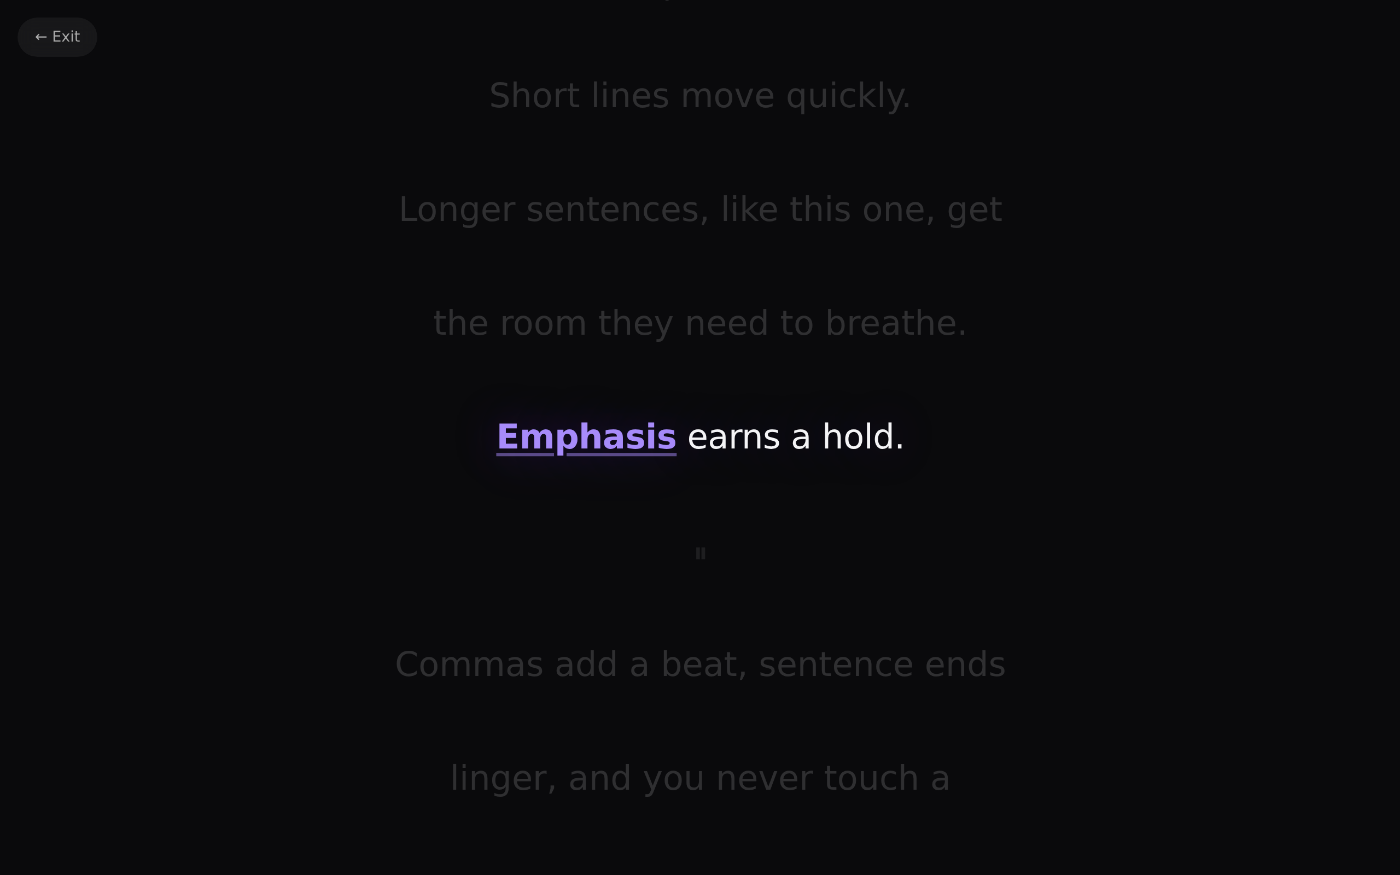
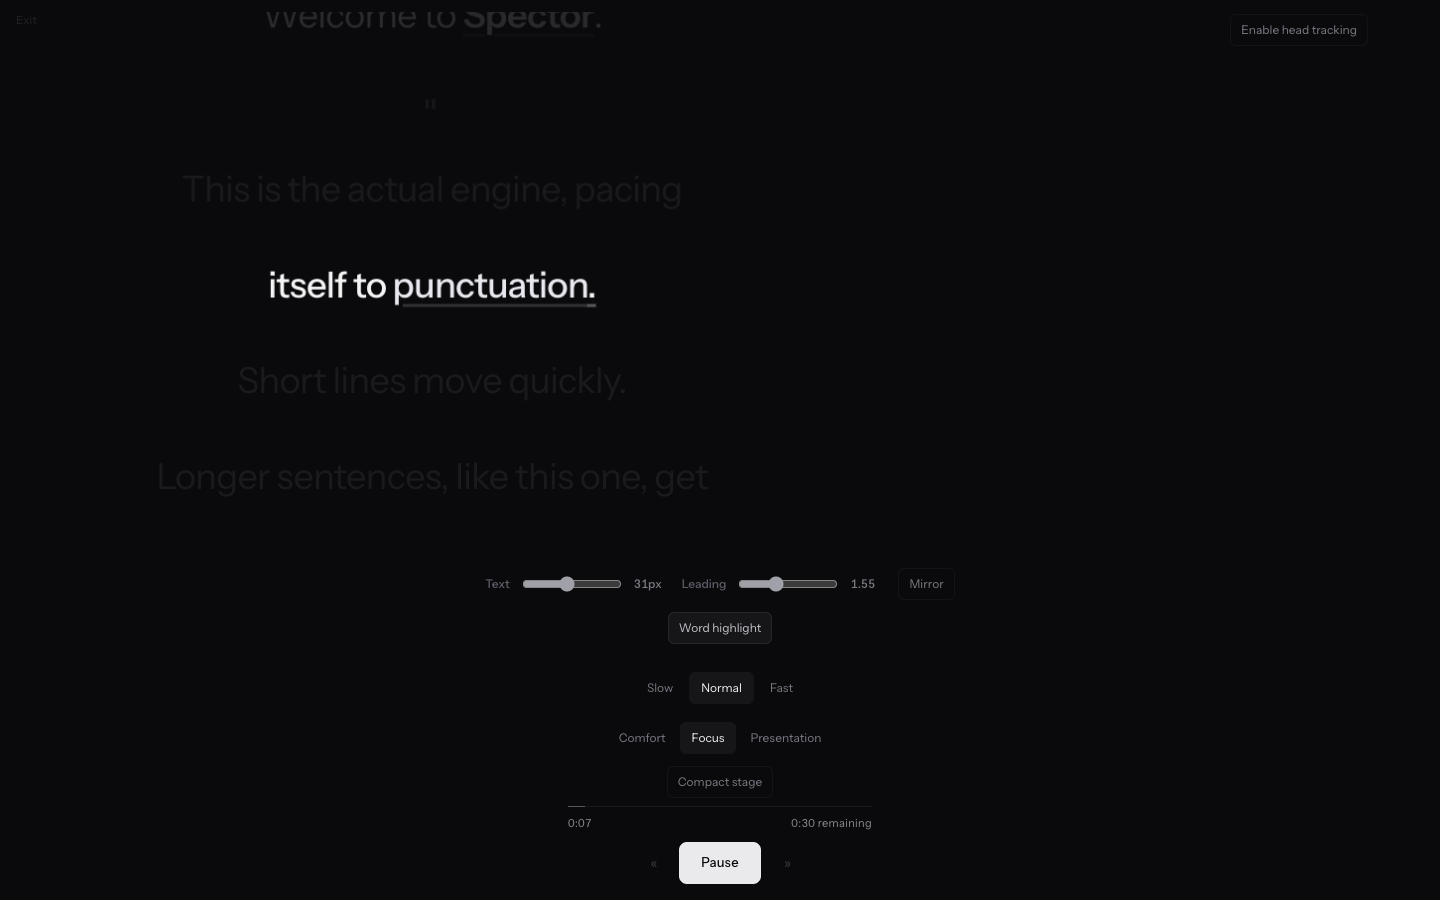
images: catch README + social card up to the dark refresh
- docs/images/readme-landing.png: fresh full-page capture of the merged
  dark landing (1440px) — dark hero, serif-accent headline, live demo pane
  with mono readouts. Captured fresh, not reused from review artifacts.
- docs/images/readme-player.png: replaced with the PR #72 capture of the
  current player (mid-play, word-highlight underline, full control set);
  the old file was the retired purple design.
- public/images/og-card.png: rebuilt in the new visual language via a
  deterministic generator (assets/og-card.html, 1200x630, served from repo
  root + headless capture) — #070A0C base with radial glows, mono SPECTOR
  wordmark, Instrument Sans + Serif-italic headline with phosphor glow,
  one phosphor notched demo-pane motif, small tagline. Reproducible.
- Cache-buster: og-card.png?v=2 -> ?v=3 on all five pages that reference it.

Service worker: none of the three replaced files appear in the sw.js ASSETS
precache list (verified) -> spector-v16 stands, no bump.

Verification: run_verification.py ALL PASS; app.html?test ALL PASS (74);
landing network tab zero third-party origins.

diff --git a/assets/og-card.html b/assets/og-card.html
@@ -1,0 +1,132 @@
+<!DOCTYPE html>
+<!-- SPECTOR og-card generator — deterministic 1200x630 social card.
+     Serve the REPO ROOT (python3 -m http.server) and screenshot .card at
+     exactly 1200x630, then save to public/images/og-card.png.
+     Fonts resolve from the vendored public/fonts/ (OFL 1.1). -->
+<html lang="en">
+<head>
+<meta charset="UTF-8">
+<style>
+    @font-face {
+        font-family: 'Instrument Sans';
+        font-style: normal;
+        font-weight: 100 900;
+        src: url('../public/fonts/instrument-sans-var-latin.woff2') format('woff2');
+    }
+    @font-face {
+        font-family: 'Instrument Serif';
+        font-style: italic;
+        font-weight: 400;
+        src: url('../public/fonts/instrument-serif-italic-latin.woff2') format('woff2');
+    }
+    * { margin: 0; padding: 0; box-sizing: border-box; }
+    body { background: #222; }
+    .card {
+        width: 1200px;
+        height: 630px;
+        position: relative;
+        overflow: hidden;
+        background-color: #070A0C;
+        background-image:
+            radial-gradient(ellipse 60% 55% at 78% 22%, rgba(47, 217, 196, 0.08), transparent),
+            radial-gradient(ellipse 50% 45% at 12% 88%, rgba(64, 96, 116, 0.07), transparent);
+        color: #E8EDEC;
+        font-family: 'Instrument Sans', system-ui, sans-serif;
+        padding: 64px 72px;
+        display: flex;
+        flex-direction: column;
+    }
+    /* page-wide scanline texture, same as the site */
+    .card::before {
+        content: '';
+        position: absolute;
+        inset: 0;
+        pointer-events: none;
+        background: repeating-linear-gradient(0deg, rgba(255, 255, 255, 0.015) 0 1px, transparent 1px 3px);
+    }
+    .wordmark {
+        font-family: ui-monospace, 'SF Mono', Menlo, monospace;
+        font-size: 15px;
+        letter-spacing: 0.32em;
+        color: rgba(232, 237, 236, 0.55);
+    }
+    .headline {
+        margin-top: 54px;
+        font-size: 96px;
+        font-weight: 640;
+        letter-spacing: -0.035em;
+        line-height: 1.02;
+        max-width: 9.5ch;
+    }
+    .headline .serif {
+        font-family: 'Instrument Serif', serif;
+        font-style: italic;
+        font-weight: 400;
+        letter-spacing: -0.015em;
+        text-shadow: 0 0 34px rgba(47, 217, 196, 0.28);
+    }
+    .tagline {
+        margin-top: auto;
+        font-size: 24px;
+        color: rgba(232, 237, 236, 0.62);
+        letter-spacing: -0.01em;
+        max-width: 560px;
+    }
+    /* One phosphor accent: the notched demo-pane motif */
+    .pane {
+        position: absolute;
+        right: 72px;
+        bottom: 64px;
+        width: 380px;
+        background: #10161A;
+        border: 1px solid rgba(255, 255, 255, 0.08);
+        clip-path: polygon(0 0, calc(100% - 20px) 0, 100% 20px, 100% 100%, 0 100%);
+        box-shadow: 0 0 64px -20px rgba(47, 217, 196, 0.25);
+        padding: 26px 28px 18px;
+    }
+    .pane .ctx {
+        font-size: 15px;
+        color: rgba(232, 237, 236, 0.5);
+        line-height: 1.5;
+    }
+    .pane .active {
+        font-size: 21px;
+        font-weight: 550;
+        color: #F2F7F6;
+        margin: 8px 0;
+    }
+    .pane .active::after {
+        content: '';
+        display: inline-block;
+        width: 2px;
+        height: 0.95em;
+        margin-left: 4px;
+        vertical-align: -0.12em;
+        background: #2FD9C4;
+        box-shadow: 0 0 8px rgba(47, 217, 196, 0.6);
+    }
+    .pane .readouts {
+        margin-top: 14px;
+        padding-top: 12px;
+        border-top: 1px solid rgba(255, 255, 255, 0.06);
+        font-family: ui-monospace, 'SF Mono', Menlo, monospace;
+        font-size: 10.5px;
+        letter-spacing: 0.12em;
+        color: rgba(232, 237, 236, 0.4);
+    }
+    .pane .readouts b { color: #2FD9C4; font-weight: 400; }
+</style>
+</head>
+<body>
+    <div class="card">
+        <div class="wordmark">SPECTOR</div>
+        <div class="headline">Stop reading.<br>Start <span class="serif">delivering.</span></div>
+        <div class="tagline">Free, open-source teleprompter. Your punctuation sets the pace.</div>
+        <div class="pane">
+            <div class="ctx">Longer sentences get the room they need.</div>
+            <div class="active">Emphasis earns a hold.</div>
+            <div class="readouts"><b>WPM 142</b>&nbsp;&nbsp;&nbsp;CHUNK 03/18&nbsp;&nbsp;&nbsp;FOCUS · NORMAL</div>
+        </div>
+    </div>
+</body>
+</html>

diff --git a/public/ray-ban-meta-teleprompter.html b/public/ray-ban-meta-teleprompter.html
@@ -9,7 +9,7 @@
     <meta name="theme-color" content="#F7F7F8">
     <meta property="og:title" content="Spector for Ray-Ban Meta">
     <meta property="og:description" content="Gen 1 and Gen 2 have no display. The Display model cannot show SPECTOR on the lens yet. Rehearse on your phone.">
-    <meta property="og:image" content="https://www.spectorlabs.io/images/og-card.png?v=2">
+    <meta property="og:image" content="https://www.spectorlabs.io/images/og-card.png?v=3">
     <meta property="og:image:width" content="1200">
     <meta property="og:image:height" content="630">
     <meta property="og:image:alt" content="SPECTOR player: the active script line highlighted on a dark stage">
@@ -18,7 +18,7 @@
     <meta name="twitter:card" content="summary_large_image">
     <meta name="twitter:title" content="Spector for Ray-Ban Meta">
     <meta name="twitter:description" content="Gen 1 and Gen 2 have no display. The Display model cannot show SPECTOR on the lens yet. Rehearse on your phone.">
-    <meta name="twitter:image" content="https://www.spectorlabs.io/images/og-card.png?v=2">
+    <meta name="twitter:image" content="https://www.spectorlabs.io/images/og-card.png?v=3">
     <link rel="stylesheet" href="/style.min.css?v=9">
     <link rel="stylesheet" href="/landing-v2.min.css?v=25">
     <link rel="icon" href="/favicon.ico?v=5" sizes="32x32">

diff --git a/public/teleprompter-for-xreal.html b/public/teleprompter-for-xreal.html
@@ -9,7 +9,7 @@
     <meta name="theme-color" content="#F7F7F8">
     <meta property="og:title" content="Spector on XREAL">
     <meta property="og:description" content="Mirror SPECTOR from the phone or laptop you already connect. The script stays in view. No microphone. No account.">
-    <meta property="og:image" content="https://www.spectorlabs.io/images/og-card.png?v=2">
+    <meta property="og:image" content="https://www.spectorlabs.io/images/og-card.png?v=3">
     <meta property="og:image:width" content="1200">
     <meta property="og:image:height" content="630">
     <meta property="og:image:alt" content="SPECTOR player: the active script line highlighted on a dark stage">
@@ -18,7 +18,7 @@
     <meta name="twitter:card" content="summary_large_image">
     <meta name="twitter:title" content="Spector on XREAL">
     <meta name="twitter:description" content="Mirror SPECTOR from the phone or laptop you already connect. The script stays in view. No microphone. No account.">
-    <meta name="twitter:image" content="https://www.spectorlabs.io/images/og-card.png?v=2">
+    <meta name="twitter:image" content="https://www.spectorlabs.io/images/og-card.png?v=3">
     <link rel="stylesheet" href="/style.min.css?v=9">
     <link rel="stylesheet" href="/landing-v2.min.css?v=25">
     <link rel="icon" href="/favicon.ico?v=5" sizes="32x32">

diff --git a/public/teleprompter-for-viture.html b/public/teleprompter-for-viture.html
@@ -9,7 +9,7 @@
     <meta name="theme-color" content="#F7F7F8">
     <meta property="og:title" content="Spector on Viture">
     <meta property="og:description" content="If Viture can show a browser, it can show SPECTOR. Punctuation sets the pace. No microphone. No account.">
-    <meta property="og:image" content="https://www.spectorlabs.io/images/og-card.png?v=2">
+    <meta property="og:image" content="https://www.spectorlabs.io/images/og-card.png?v=3">
     <meta property="og:image:width" content="1200">
     <meta property="og:image:height" content="630">
     <meta property="og:image:alt" content="SPECTOR player: the active script line highlighted on a dark stage">
@@ -18,7 +18,7 @@
     <meta name="twitter:card" content="summary_large_image">
     <meta name="twitter:title" content="Spector on Viture">
     <meta name="twitter:description" content="If Viture can show a browser, it can show SPECTOR. Punctuation sets the pace. No microphone. No account.">
-    <meta name="twitter:image" content="https://www.spectorlabs.io/images/og-card.png?v=2">
+    <meta name="twitter:image" content="https://www.spectorlabs.io/images/og-card.png?v=3">
     <link rel="stylesheet" href="/style.min.css?v=9">
     <link rel="stylesheet" href="/landing-v2.min.css?v=25">
     <link rel="icon" href="/favicon.ico?v=5" sizes="32x32">

diff --git a/public/index.html b/public/index.html
@@ -8,7 +8,7 @@
     <meta name="theme-color" content="#F7F7F8">
     <meta property="og:title" content="Spector — Punctuation-paced. No mic. No cloud.">
     <meta property="og:description" content="Your punctuation sets the pace — not your voice. No mic. No listening. Free core forever.">
-    <meta property="og:image" content="https://www.spectorlabs.io/images/og-card.png?v=2">
+    <meta property="og:image" content="https://www.spectorlabs.io/images/og-card.png?v=3">
     <meta property="og:image:width" content="1200">
     <meta property="og:image:height" content="630">
     <meta property="og:type" content="website">
@@ -16,7 +16,7 @@
     <meta name="twitter:card" content="summary_large_image">
     <meta name="twitter:title" content="Spector — Punctuation-paced. No mic. No cloud.">
     <meta name="twitter:description" content="Your punctuation sets the pace — not your voice. No mic. No listening. Free core forever.">
-    <meta name="twitter:image" content="https://www.spectorlabs.io/images/og-card.png?v=2">
+    <meta name="twitter:image" content="https://www.spectorlabs.io/images/og-card.png?v=3">
     <title>Spector — Your punctuation sets the pace</title>
     <link rel="canonical" href="https://www.spectorlabs.io/">
     <link rel="stylesheet" href="style.min.css?v=10">

diff --git a/public/privacy.html b/public/privacy.html
@@ -10,13 +10,13 @@
     <meta name="robots" content="noindex">
     <meta property="og:title" content="Privacy Policy — Spector">
     <meta property="og:description" content="Privacy Policy for Spector: no account required, scripts and rehearsal data stay on your device, nothing uploaded.">
-    <meta property="og:image" content="https://www.spectorlabs.io/images/og-card.png?v=2">
+    <meta property="og:image" content="https://www.spectorlabs.io/images/og-card.png?v=3">
     <meta property="og:image:width" content="1200">
     <meta property="og:image:height" content="630">
     <meta property="og:type" content="website">
     <meta property="og:url" content="https://www.spectorlabs.io/privacy">
     <meta name="twitter:card" content="summary_large_image">
-    <meta name="twitter:image" content="https://www.spectorlabs.io/images/og-card.png?v=2">
+    <meta name="twitter:image" content="https://www.spectorlabs.io/images/og-card.png?v=3">
     <link rel="stylesheet" href="/style.min.css?v=9">
     <link rel="stylesheet" href="/landing-v2.min.css?v=25">
     <link rel="icon" href="/favicon.ico?v=5" sizes="32x32">
